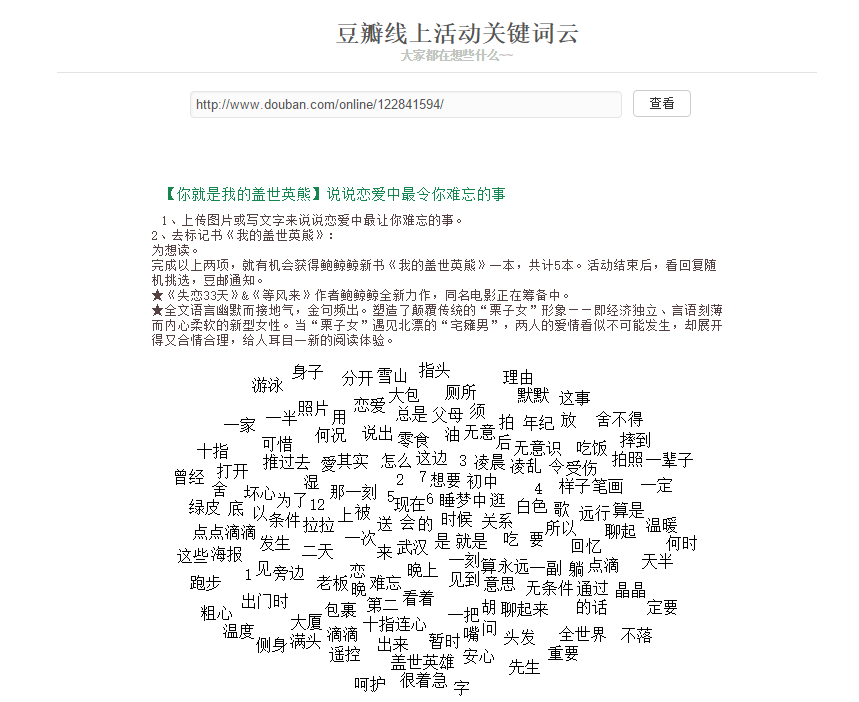
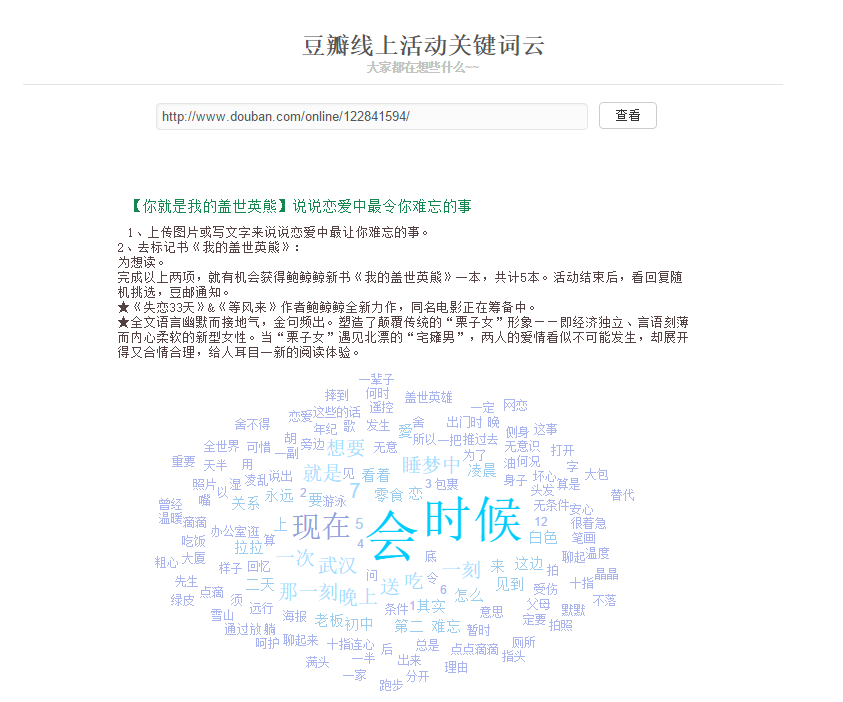
add settings.py for configure none sense words add css for displying word cloud

diff --git a/templates/doubanOnline.html b/templates/doubanOnline.html
@@ -110,7 +110,7 @@
 </div>
 <script type="text/javascript" src="/static/js/jquery-1.11.2.min.js"></script>
 <script type="text/javascript" src="/static/js/jqcloud-1.0.4.js"></script>
-<linkrel="stylesheet" type="text/css" href="/static/css/jqcloud.css"/>
+<link href="/static/css/jqcloud.css" rel="stylesheet" type="text/css">
 <script type='text/javascript'>
 $(document).ready(function () { 
 	var query = setInterval(function() {
@@ -126,7 +126,7 @@ $(document).ready(function () {
 		            		var word_list = new Array(); 
 		            		var index = 0;
 		            		for(var key in wc) {
-		            			word_list[index] = {text: key, weight:wc[key]*50};
+		            			word_list[index] = {text: key, weight:wc[key]*80};
 		            			index = index + 1;
 		            			if(index>150){
 		            				break;

diff --git a/run.py b/run.py
@@ -8,6 +8,7 @@ import json
 import jieba
 import codecs
 import os
+import settings
 
 def runSpider(spiderName, online1st, jsonName):
 	'''using scrapy to get infomation
@@ -23,7 +24,7 @@ def runAnalyze(jsonName):
 	'''calculate the frequency of words
 	'''
 	print "begin to calculate the frequency of words~~"
-	wc = sorted(_genWordCount(jsonName).iteritems(), key=lambda item:item[1],reverse=True) 
+	wc = sorted(_genWordCount(jsonName,settings.nonsense).iteritems(), key=lambda item:item[1],reverse=True) 
 	json.dump(
 		{item[0]:item[1] for item in wc},
 		codecs.open("%s.wc.tmp"%jsonName, "w", 'utf-8'), 

diff --git a/settings.py b/settings.py
@@ -1,0 +1,8 @@
+# -*- coding: utf-8 -*-
+
+# 不计数的词
+nonsense = [
+	u'它', u'他', u'她',u'你',u'我',u'它们', u'他们', u'她们',u'你们',u'我们',
+	u'吗',u'呢',u'的',u'是',u'吧',u'嘛',
+	u'也',u'被',
+]
